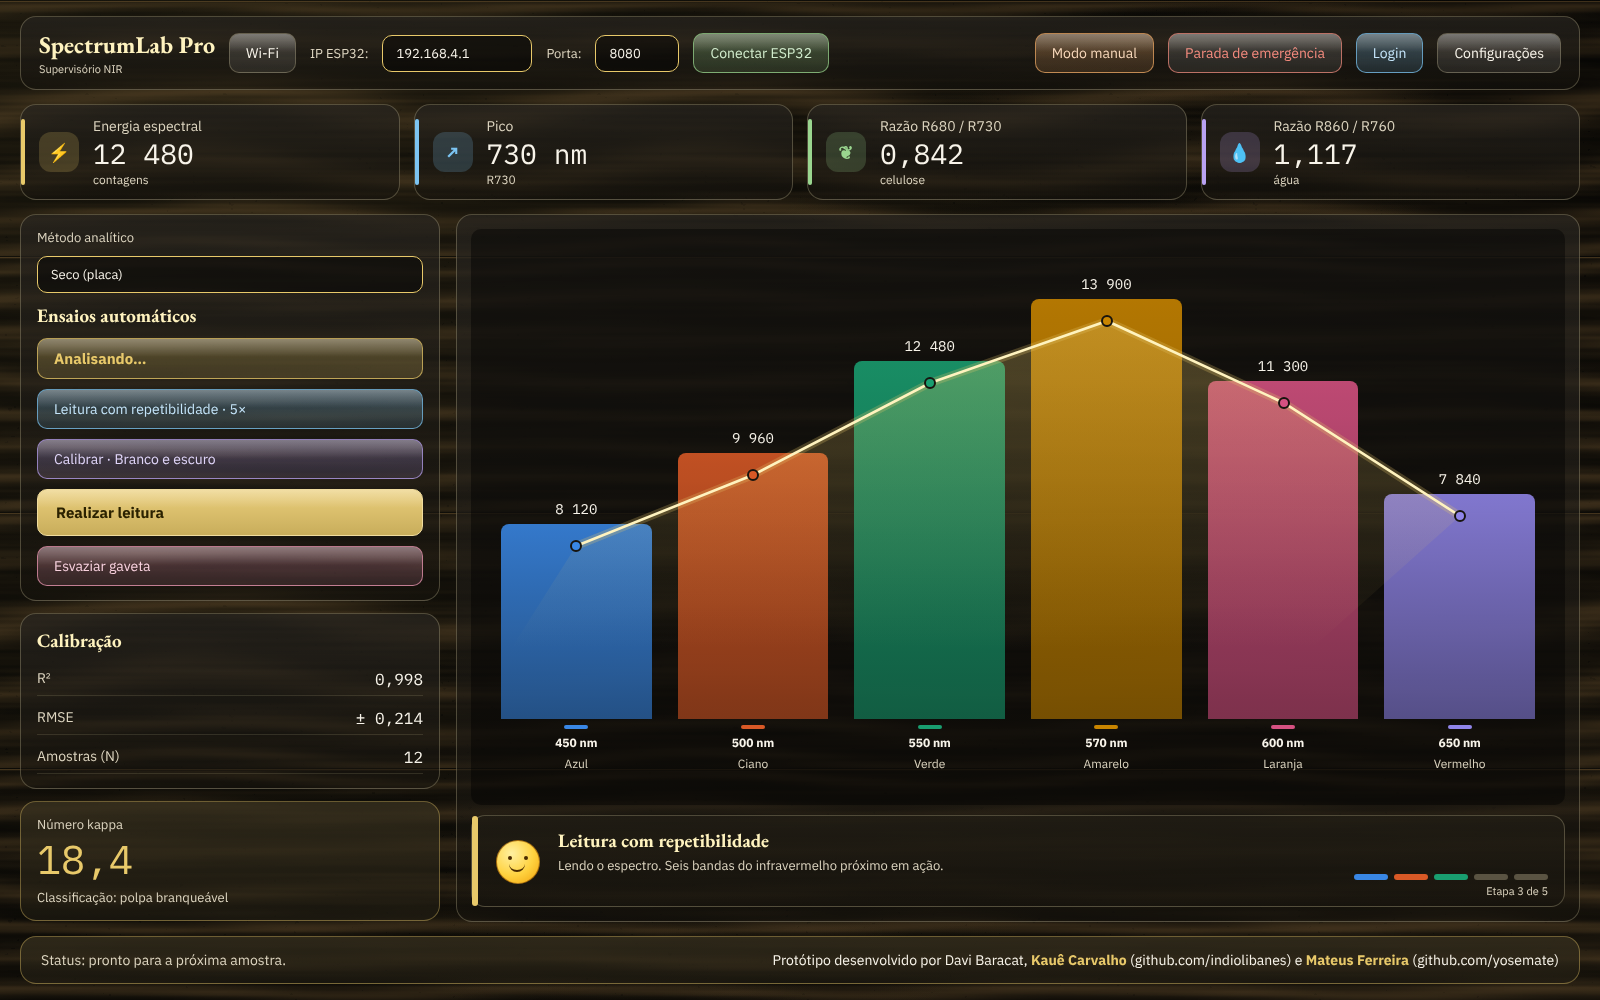
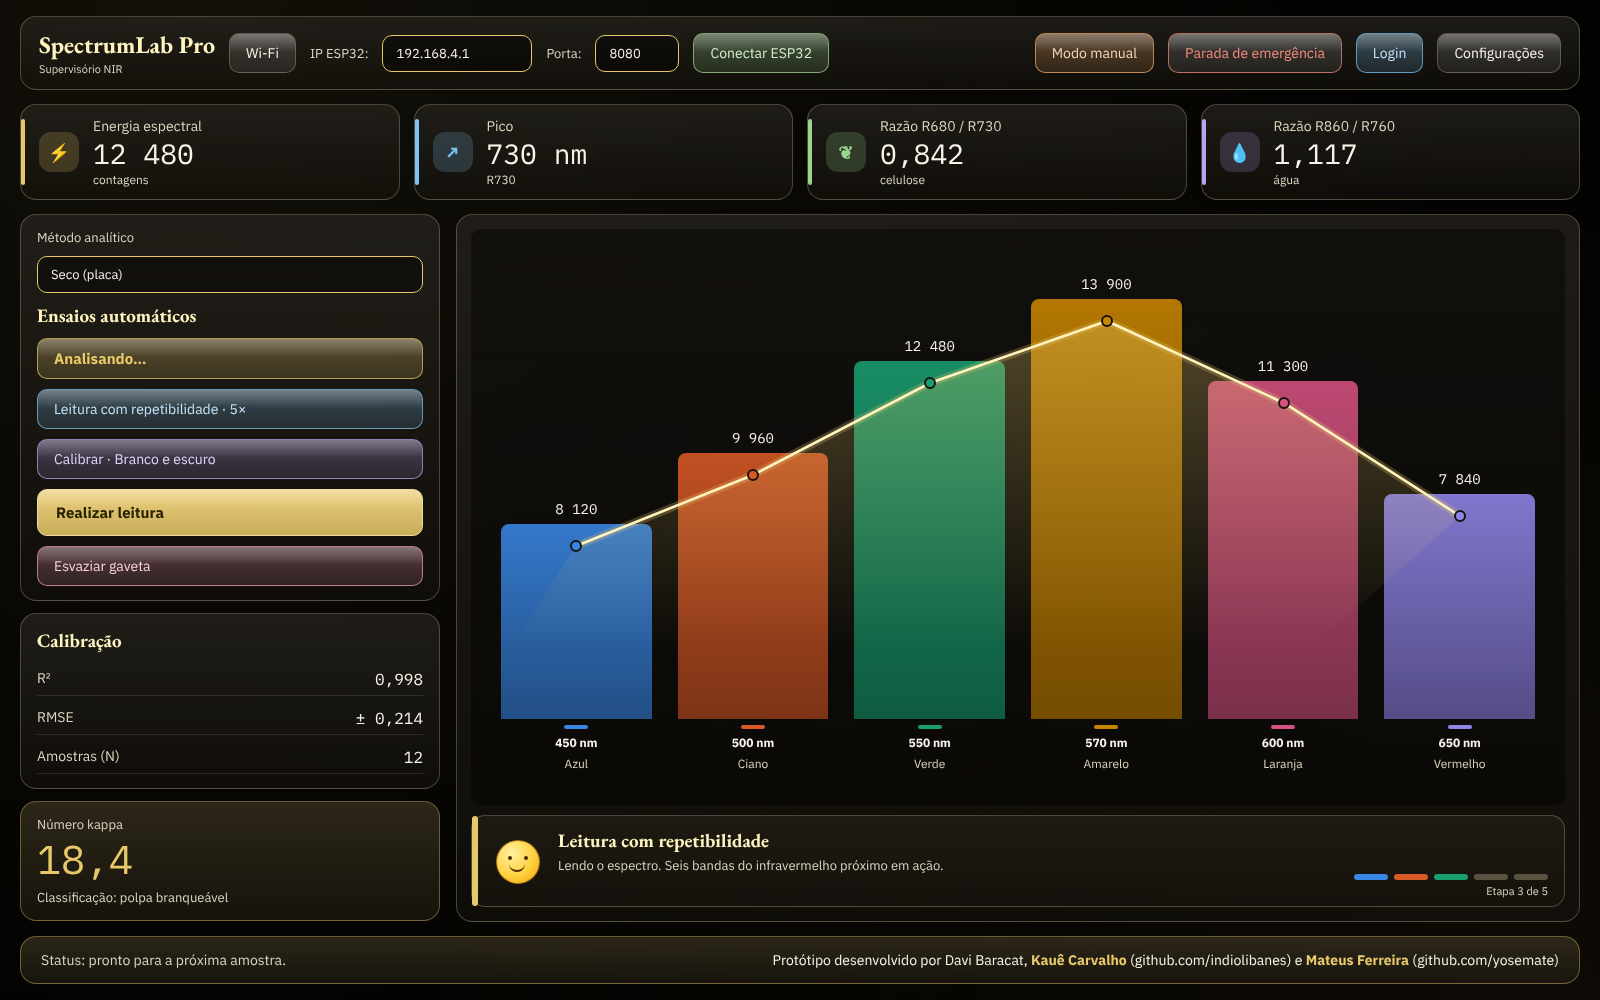
design: preto AMOLED sóbrio no tema Escuro, dourado em destaque; README transparente
- Remove a textura de madeira do tema Escuro (asset e gerador); o fundo é
  #000000 liso. A textura de celulose permanece só no tema Claro.
- Renomeia o tema para "Escuro · preto e dourado".
- README: nova seção "Como foi desenvolvido", declarando a parceria com o
  Antigravity, o desenvolvimento principal no Codex e no Claude Code, os testes
  no GitHub Codespaces e com amostras reais, e a inspiração em projetos de
  terceiros e em ideias autorais.
- Testes e espécimes atualizados.

Claude-Session: https://claude.ai/code/session_01UdjT69sd3wMh9oh5gZNrWS

diff --git a/tools/gerar_assets.py b/tools/gerar_assets.py
@@ -1,5 +1,5 @@
 """
-Gera as imagens procedurais do tema: textura de madeira escura e cursores de fibra de celulose.
+Gera os cursores de fibra de celulose (a textura clara de celulose é um asset fixo em assets/textures).
 
 Uso (só desenvolvimento; precisa de numpy e Pillow):
     python3 tools/gerar_assets.py
@@ -15,53 +15,6 @@ from PIL import Image, ImageDraw, ImageFilter
 ROOT = Path(__file__).resolve().parents[1]
 TEXTURES = ROOT / "assets" / "textures"
 CURSORS = ROOT / "assets" / "cursors"
-
-
-# ---------------------------------------------------------------------------------------------
-# Textura de madeira (tile 512 x 512 sem emendas, RGBA, só alfa varia)
-# ---------------------------------------------------------------------------------------------
-def periodic_noise(size, sigma_x, sigma_y, rng):
-    """Ruído periódico (emenda perfeita) com correlação maior em x que em y: gera fibras."""
-    spectrum = np.fft.fft2(rng.standard_normal((size, size)))
-    fx = np.fft.fftfreq(size)[None, :]
-    fy = np.fft.fftfreq(size)[:, None]
-    gauss = np.exp(-0.5 * ((fx * sigma_x) ** 2 + (fy * sigma_y) ** 2) * (2 * math.pi) ** 2)
-    out = np.real(np.fft.ifft2(spectrum * gauss))
-    out -= out.min()
-    return out / out.max()
-
-
-def wood_texture(size=512, planks=2, seed=7):
-    rng = np.random.default_rng(seed)
-    fibers = periodic_noise(size, 90, 1.3, rng)            # fibras longas, finas
-    streaks = periodic_noise(size, 40, 3.5, rng)           # veios mais largos
-    warp = periodic_noise(size, 110, 40, rng)              # deforma de leve os anéis de crescimento
-    pores = periodic_noise(size, 1.2, 0.9, rng)            # poros pequenos
-    height = size // planks
-    yy, xx = np.mgrid[0:size, 0:size]
-    value = np.zeros((size, size))
-    for k in range(planks):
-        y0, y1 = k * height, (k + 1) * height
-        local = (yy[y0:y1] - y0) / height
-        phase = rng.uniform(0, 1)
-        rings = 0.5 + 0.5 * np.sin(2 * math.pi * (local * (5.5 + 2 * k) + warp[y0:y1] * 1.1 + phase))
-        rings = rings ** 1.6
-        plank = 0.40 * rings + 0.34 * fibers[y0:y1] + 0.26 * streaks[y0:y1]
-        plank = (plank - plank.min()) / (plank.max() - plank.min())
-        plank = plank ** 1.35
-        plank *= 0.80 + 0.25 * (rng.uniform() - 0.5)          # cada tábua com um brilho próprio
-        value[y0:y1] = plank
-        # junta entre as tábuas: um fio claro seguido de uma sombra
-        value[y0, :] = 0.0
-        value[y0 + 1, :] = 0.95
-        value[y0 + 2, :] = 0.35
-    value -= 0.10 * (pores > 0.82)                           # poros escurecem um pouco
-    value = np.clip(value, 0, 1)
-    alpha = (value * 74).astype(np.uint8)
-    rgba = np.zeros((size, size, 4), np.uint8)
-    rgba[..., 0], rgba[..., 1], rgba[..., 2] = 214, 160, 88  # âmbar (cor da fibra)
-    rgba[..., 3] = alpha
-    return Image.fromarray(rgba, "RGBA")
 
 
 # ---------------------------------------------------------------------------------------------
@@ -135,7 +88,6 @@ def save_cursor(name, **kw):
 def main():
     TEXTURES.mkdir(parents=True, exist_ok=True)
     CURSORS.mkdir(parents=True, exist_ok=True)
-    wood_texture().save(TEXTURES / "madeira-escura.png", optimize=True)
     save_cursor("fibra-seta", fill=(244, 237, 220, 255), outline=(30, 22, 10, 255), strand=(236, 226, 200, 220))
     save_cursor("fibra-mao", fill=(226, 195, 92, 255), outline=(30, 22, 10, 255), strand=(240, 220, 150, 230), ring=True)
     print("Gerado em", TEXTURES, "e", CURSORS)

diff --git a/appearance.py b/appearance.py
@@ -9,9 +9,9 @@ from PyQt5.QtWidgets import (QApplication,QWidget,QLabel,QPushButton,QComboBox,Q
 from popup_design import popup_owner, popup_stylesheet
 from typography import normalize_qss, install as install_typography
 PALETTES={
- # Escuro: preto quase AMOLED com os tons de papel, umber e ouro da identidade do autor.
- # Texto em contraste alto (revisão de legibilidade): texto 17:1, secundário 13:1 sobre o fundo.
- "umber":{"canvas":"#050504","surface":"#17140E","soft":"#221E15","border":"#5A5342",
+ # Escuro: preto AMOLED sóbrio (fundo #000000, sem textura) com o dourado como destaque.
+ # Texto em contraste alto (revisão de legibilidade): texto 18:1, secundário 12:1 sobre o fundo.
+ "umber":{"canvas":"#000000","surface":"#17140E","soft":"#221E15","border":"#5A5342",
           "text":"#F8F4EA","heading":"#FFF3BF","muted":"#DDD5C0","disabled":"#8A836C","accent":"#E8C96A",
           "positive":"#9AD68F","warning":"#F0A965","danger":"#F58B7E",
           "sky":"#7CC4F2","violet":"#B9A2F2","rose":"#F29BB8",
@@ -31,18 +31,21 @@ SERIES={
 }
 DEFAULT_THEME="umber"
 LEGACY_THEMES={"dark":"umber","gold":"umber"}   # preferências salvas por versões anteriores
-THEME_LABELS={"umber":"Escuro · umber e ouro","light":"Claro · branco e verde"}
-TEXTURE_FILES={"umber":"madeira-escura.png","light":"celulose-claro.png"}
+THEME_LABELS={"umber":"Escuro · preto e dourado","light":"Claro · branco e verde"}
+TEXTURE_FILES={"light":"celulose-claro.png"}   # o Escuro é preto liso (AMOLED), sem textura
 def texture_path(theme=None):
-    """Textura de fibras de celulose, quase transparente, usada no fundo da janela principal."""
+    """Textura do fundo da janela principal, ou None quando o tema não tem textura."""
     import sys
+    name=TEXTURE_FILES.get(theme or current_theme())
+    if name is None:return None
     base=Path(getattr(sys,"_MEIPASS",Path(__file__).resolve().parent))
-    return base/"assets"/"textures"/TEXTURE_FILES.get(theme or current_theme(),TEXTURE_FILES[DEFAULT_THEME])
+    return base/"assets"/"textures"/name
 _TEXTURE_CACHE={}
 def texture_pixmap(theme=None):
     key=theme or current_theme()
     if key not in _TEXTURE_CACHE:
-        pix=QPixmap(str(texture_path(key)))
+        path=texture_path(key)
+        pix=QPixmap(str(path)) if path else QPixmap()   # QPixmap vazio: o chamador não desenha nada
         _TEXTURE_CACHE[key]=pix
     return _TEXTURE_CACHE[key]
 def current_theme():
@@ -281,7 +284,7 @@ class AppearanceDialog(QDialog):
         self.theme_buttons={}
         self.theme_group=QButtonGroup(self);self.theme_group.setExclusive(True)
         pickers=QHBoxLayout();pickers.setSpacing(12)
-        for key,text in (("umber","Escuro\nâmbar e ouro"),("light","Claro\nbranco e verde")):
+        for key,text in (("umber","Escuro\npreto e dourado"),("light","Claro\nbranco e verde")):
             button=QPushButton(text);button.setCheckable(True);button.setMinimumHeight(68)
             button.setProperty("fxTone","soft");button.setChecked(manager.theme==key)
             button.clicked.connect(lambda _=False,k=key:self.change_theme(k))

diff --git a/tests/test_gui_smoke.py b/tests/test_gui_smoke.py
@@ -91,14 +91,18 @@ class GuiSmokeTests(unittest.TestCase):
             self.manager.set_theme(theme, persist=False)
             self.assertEqual(self.app.property("spectrum_theme"), theme)
 
-    def test_canvas_root_paints_the_cellulose_texture(self):
+    def test_canvas_root_paints_the_cellulose_texture_only_in_light(self):
         import scada_ui
-        for theme in ("umber", "light"):
-            self.manager.set_theme(theme, persist=False)
-            root = scada_ui.CanvasRoot()
-            root.resize(420, 300)
-            pixmap = root.grab()
-            self.assertGreater(len(distinct_pixels(pixmap, 5, 5)), 1, f"textura invisível no tema {theme}")
+        from appearance import TEXTURE_FILES
+        self.assertNotIn("umber", TEXTURE_FILES, "o Escuro é preto liso, sem textura")
+        self.manager.set_theme("light", persist=False)
+        root = scada_ui.CanvasRoot()
+        root.resize(420, 300)
+        self.assertGreater(len(distinct_pixels(root.grab(), 5, 5)), 1, "textura invisível no tema claro")
+        self.manager.set_theme("umber", persist=False)
+        root = scada_ui.CanvasRoot()
+        root.resize(420, 300)
+        self.assertEqual(len(distinct_pixels(root.grab(), 5, 5)), 1, "fundo do Escuro deve ser preto liso")
 
     def test_legacy_theme_names_migrate_to_umber(self):
         from appearance import LEGACY_THEMES
@@ -108,7 +112,7 @@ class GuiSmokeTests(unittest.TestCase):
     def test_glass_panels_show_the_texture_through(self):
         """O cartão é translúcido: renderizado sobre a textura, não pode ser uma cor chapada."""
         import scada_ui
-        self.manager.set_theme("umber", persist=False)
+        self.manager.set_theme("light", persist=False)
         root = scada_ui.CanvasRoot()
         layout = QVBoxLayout(root)
         box = scada_ui.panel()
@@ -120,6 +124,7 @@ class GuiSmokeTests(unittest.TestCase):
         self.pump()
         self.assertGreater(len(distinct_pixels(box.grab(), 5, 5)), 1, "painel opaco: a textura não aparece")
         root.close()
+        self.manager.set_theme("umber", persist=False)
 
     def test_analysis_indicator_renders_every_state(self):
         from analysis_indicator import AnalysisIndicator

diff --git a/tools/especime.py b/tools/especime.py
@@ -48,7 +48,7 @@ def page(p, series, texture, arrow, hand):
 @font-face{{font-family:'EB Garamond';src:url('{f}EBGaramond-Regular.ttf');font-weight:400}}
 @font-face{{font-family:'IBM Plex Mono';src:url('{f}IBMPlexMono-Regular.ttf');font-weight:400}}
 *{{box-sizing:border-box;margin:0}}
-body{{width:1600px;height:1000px;background:{glows},url('{texture}'),{p['canvas']};color:{p['text']};font:400 13px 'IBM Plex Sans';padding:16px 20px;display:flex;flex-direction:column;gap:14px;position:relative}}
+body{{width:1600px;height:1000px;background:{glows}{(",url('" + texture + "')") if texture else ""},{p['canvas']};color:{p['text']};font:400 13px 'IBM Plex Sans';padding:16px 20px;display:flex;flex-direction:column;gap:14px;position:relative}}
 .panel{{background:{css(glass.panel_fill(p))};border:1px solid {glass.rim(p)};border-radius:16px}}
 .top{{display:flex;align-items:center;gap:14px;padding:12px 18px}}
 .brand b{{display:block;font:700 24px 'EB Garamond';color:{p['heading']}}} .brand small{{color:{p['muted']};font-size:11px}}
@@ -164,11 +164,10 @@ def main():
     pals, series = palettes()
     arrow = (ROOT / "assets/cursors/fibra-seta@2x.png").as_uri()
     hand = (ROOT / "assets/cursors/fibra-mao@2x.png").as_uri()
-    wood = (ROOT / "assets/textures/madeira-escura.png").as_uri()
     pulp = (ROOT / "assets/textures/celulose-claro.png").as_uri()
-    items = [("umber", page(pals["umber"], series["umber"], wood, arrow, hand), (1600, 1000)),
+    items = [("umber", page(pals["umber"], series["umber"], None, arrow, hand), (1600, 1000)),
              ("claro", page(pals["light"], series["light"], pulp, arrow, hand), (1600, 1000)),
-             ("config-umber", dialog_page(pals["umber"], series["umber"], wood, arrow, hand), (720, 820)),
+             ("config-umber", dialog_page(pals["umber"], series["umber"], None, arrow, hand), (720, 820)),
              ("config-claro", dialog_page(pals["light"], series["light"], pulp, arrow, hand), (720, 820))]
     asyncio.run(shoot(items, out))
     print("espécimes em", out)

diff --git a/glass.py b/glass.py
@@ -2,7 +2,7 @@
 Vidro: receitas de cor e QSS compartilhadas pelos painéis, botões, diálogos e teclado.
 
 O Qt não desfoca o que está atrás de um widget, então o "vidro" aqui é construído com o que o QSS
-sabe fazer: preenchimento translúcido em degradê, fio de luz na borda (rim), a textura de madeira
+sabe fazer: preenchimento translúcido em degradê, fio de luz na borda (rim), a textura (no claro)
 aparecendo por baixo dos painéis e um brilho ambiente no fundo (pintado em scada_ui.CanvasRoot).
 
 Módulo sem Qt, para poder ser testado em qualquer lugar (tests/test_glass.py).
@@ -47,7 +47,7 @@ def rim(p, strength=1.0):
 
 
 def panel_fill(p):
-    """Painel de vidro: mais claro no alto, mais fundo embaixo; deixa a madeira aparecer."""
+    """Painel de vidro: mais claro no alto, mais fundo embaixo; deixa o fundo aparecer."""
     if is_dark(p):
         return vgrad(rgba(mix_hex(p["surface"], "#FFFFFF", 0.07), 0.74), rgba(p["surface"], 0.56))
     return vgrad(rgba("#FFFFFF", 0.88), rgba("#FFFFFF", 0.66))

diff --git a/scada_ui.py b/scada_ui.py
@@ -15,7 +15,7 @@ from responsive_layout import ScaledCanvasView
 from version import __credits__,credits_html
 
 class CanvasRoot(QWidget):
-    """Raiz do painel: fundo do tema, textura (madeira no escuro, celulose no claro) e brilho ambiente.
+    """Raiz do painel: fundo do tema, textura (só celulose, no claro) e brilho ambiente.
 
     Os cartões são translúcidos (ver glass.py), então tudo isso aparece por trás deles."""
     def paint_background(self,painter):
@@ -61,7 +61,7 @@ def open_login(window):
         window.log_message('Sessão autenticada: '+window.current_operator_name)
 
 def dashboard_style(p):
-    """Folha de estilo do painel: vidro sobre a madeira, botões com tom por função, destaque contido."""
+    """Folha de estilo do painel: vidro sobre o preto, botões com tom por função, destaque dourado."""
     accent=p['accent_strong']
     rim=glass.rim(p);rim_soft=glass.rim(p,.6);rim_button=glass.rim(p,1.5)
     hover_border=glass.rgba(p['accent'],.85)

diff --git a/tests/test_glass.py b/tests/test_glass.py
@@ -140,7 +140,7 @@ class GlassTests(unittest.TestCase):
 
 class AssetTests(unittest.TestCase):
     def test_generated_assets_exist(self):
-        for rel in ("assets/textures/madeira-escura.png", "assets/textures/celulose-claro.png",
+        for rel in ("assets/textures/celulose-claro.png",
                     "assets/cursors/fibra-seta.png", "assets/cursors/fibra-seta@2x.png",
                     "assets/cursors/fibra-mao.png", "assets/cursors/fibra-mao@2x.png"):
             path = ROOT / rel

diff --git a/docs/IDENTIDADE_VISUAL.md b/docs/IDENTIDADE_VISUAL.md
@@ -19,7 +19,7 @@ Três referências, todas usadas como inspiração de linguagem, nunca como cóp
 - **Clareza da interface da Apple**: poucos elementos por tela, hierarquia tipográfica curta, cantos generosos (10 px nos botões e campos, 16 px nos painéis), destaque dourado (ou verde) para a ação principal e um tom por função nos demais botões, movimento com física de mola (entrada escalonada, botões que cedem ao toque e voltam com leve ultrapassagem, troca de tema em fusão). Só a *linguagem*: as fontes e o kit visual da Apple são proprietários e não são usados.
 - **Material 3** para os estados de toque (realce ao passar, cor viva ao pressionar, ondulação no ponto tocado) e alvos de toque grandes.
 
-**O que o Qt não faz.** O QSS não desfoca o que está atrás do widget. O vidro é construído com preenchimento translúcido em degradê, fio de luz na borda, a textura do fundo aparecendo por baixo dos painéis e um brilho ambiente pintado no fundo. Resultado: a mesma sensação de profundidade, sem desfoque real.
+**O que o Qt não faz.** O QSS não desfoca o que está atrás do widget. O vidro é construído com preenchimento translúcido em degradê, fio de luz na borda, a textura do fundo (no claro) aparecendo por baixo dos painéis e um brilho ambiente pintado no fundo. Resultado: a mesma sensação de profundidade, sem desfoque real.
 
 **Por que não Jetpack Compose neste programa.** O Compose é uma biblioteca em Kotlin (Android e JVM) e não pode ser embutido em um aplicativo PyQt5. O caminho para Android é um cliente separado, que fale o mesmo protocolo TCP do ESP32 (comandos em `run/fake_esp32.py`), e fica para a última fase do roteiro: primeiro UX/UI, depois animações, por fim Android e talvez web.
 
@@ -49,13 +49,13 @@ Aparece na abertura (canto inferior direito) e no **rodapé da janela principal*
 
 Há dois temas, escolhidos em *Configurações → Aparência*; a escolha fica salva e a troca acontece em uma fusão suave de cerca de 360 ms (sem ela, com *Reduzir animações*). *Acessibilidade* é uma seção à parte, com o teclado na tela e as animações. Preferências antigas (`dark`, `gold`) migram sozinhas para o tema Escuro.
 
-### Escuro · umber e ouro (padrão)
+### Escuro · preto e dourado (padrão)
 
-Preto quase AMOLED (`#050504`: os pixels ficam praticamente apagados em telas OLED) com os tons de papel, umber e ouro da identidade do autor.
+Preto AMOLED (`#000000`: os pixels ficam totalmente apagados em telas OLED), sem textura, com o dourado como única cor de destaque. Os tons de texto são papel quente, para não parecer frio.
 
 | Token | Hex | Uso |
 |---|---|---|
-| canvas | `#050504` | Fundo da janela |
+| canvas | `#000000` | Fundo da janela (preto AMOLED, sem textura) |
 | surface | `#17140E` | Diálogos e base dos painéis de vidro |
 | soft | `#221E15` | Áreas alternadas |
 | border | `#5A5342` | Bordas sólidas e divisores |
@@ -68,7 +68,7 @@ Preto quase AMOLED (`#050504`: os pixels ficam praticamente apagados em telas OL
 | sky / violet / rose | `#7CC4F2` / `#B9A2F2` / `#F29BB8` | Tons de função dos botões e dos ícones |
 | on_strong | `#2B2200` | Texto sobre botão dourado |
 
-**Textura de madeira.** `assets/textures/madeira-escura.png`: tábuas de fibra âmbar quase transparentes, geradas por `tools/gerar_assets.py` (semente fixa, sem imagem de terceiros). Aparece no fundo e por trás dos painéis de vidro.
+**Sem textura no escuro.** A textura de madeira foi removida: o fundo é preto liso, e o destaque vem do dourado (botão principal, números, curva e bordas), não de ornamento.
 
 ### Claro: branco e verde
 
@@ -111,7 +111,7 @@ Receitas em `glass.py` (sem Qt, testadas):
 | Botão em tom | Vidro tingido com a cor da função (30% no alto, 14% embaixo, no escuro), borda a 70% do tom |
 | Botão principal | Cor de destaque cheia, com luz no topo e foco de luz que acompanha o ponteiro (desenhados por `button_fx.py`) |
 | Campos | Poço levemente mais escuro que o painel, borda de destaque no foco |
-| Fundo | Cor do tema + textura + dois brilhos ambientes (dourado no escuro, verde no claro) |
+| Fundo | Cor do tema + textura (só no claro) + dois brilhos ambientes (dourado no escuro, verde no claro) |
 
 Diálogos usam cor sólida (são janelas separadas e não há o que enxergar através delas).
 

diff --git a/docs/TUTORIAL_CODESPACE.md b/docs/TUTORIAL_CODESPACE.md
@@ -1,6 +1,6 @@
 # Tutorial de teste no Codespace
 
-Roteiro para validar a interface nova: tema Escuro (preto quase AMOLED, umber e ouro, sobre madeira), tema Claro, Configurações em duas seções (Aparência e Acessibilidade), legibilidade e responsividade, botões em tons com animação de mola, gráficos coloridos, indicador de análise com rosto colorido, teclado na tela, rodapé com links e cursor de fibra de celulose. Tempo estimado: 50 minutos, sendo 10 de preparação.
+Roteiro para validar a interface nova: tema Escuro (preto AMOLED sóbrio, com dourado em destaque), tema Claro, Configurações em duas seções (Aparência e Acessibilidade), legibilidade e responsividade, botões em tons com animação de mola, gráficos coloridos, indicador de análise com rosto colorido, teclado na tela, rodapé com links e cursor de fibra de celulose. Tempo estimado: 50 minutos, sendo 10 de preparação.
 
 > **Importante.** A interface foi escrita sem poder abrir o PyQt5 no ambiente do assistente. A lógica pura tem testes automáticos que passam, mas **a aparência e o toque ainda não foram vistos em execução**. É isso que este roteiro verifica.
 
@@ -81,11 +81,11 @@ Marque **OK** ou descreva o problema. Prints ajudam muito.
 
 | # | Passo | Esperado | |
 |---|---|---|---|
-| A1 | Observe a abertura | Marca "SpectrumLab Pro" em Garamond cor de ouro pálido; "Da luz" em ouro pálido e "à análise." em dourado; madeira escura ao fundo, logos SENAI e ARAUCO; assinatura no canto inferior direito | ☐ |
-| A2 | Janela principal | Fundo quase preto (confira em tela OLED, se tiver), veios de madeira discretos nas margens **e por trás dos painéis**, painéis de vidro com fio de luz na borda, destaques dourados | ☐ |
+| A1 | Observe a abertura | Marca "SpectrumLab Pro" em Garamond cor de ouro pálido; "Da luz" em ouro pálido e "à análise." em dourado; fundo preto liso, sem textura no Escuro, logos SENAI e ARAUCO; assinatura no canto inferior direito | ☐ |
+| A2 | Janela principal | Fundo preto liso (confira em tela OLED, se tiver), **sem** veios ou textura no Escuro; painéis de vidro com fio de luz na borda; destaques dourados | ☐ |
 | A3 | Títulos e números | "SpectrumLab Pro", "Ensaios automáticos" e o título do indicador em **Garamond** (serifa fina); rótulos e botões em Plex Sans; valores dos indicadores e o número Kappa em Mono | ☐ |
 | A4 | **Configurações** → seção **Aparência** → tema **Claro** | Troca na hora, com uma fusão suave, para branco e verde; nenhum trecho azul ou preto "esquecido". O tema fica **só** nessa seção | ☐ |
-| A5 | Volte para **Escuro · umber e ouro** | Preto, madeira e ouro. A lista tem só dois temas | ☐ |
+| A5 | Volte para **Escuro · preto e dourado** | Preto e dourado, sem textura. A lista tem só dois temas | ☐ |
 | A6 | Feche e abra o programa | Lembra o último tema escolhido | ☐ |
 | A7 | Rodapé | Cartão com borda de destaque, bem visível nos dois temas. À direita: "Protótipo desenvolvido por Davi Baracat, **Kauê Carvalho** e **Mateus Ferreira**", com os dois nomes em destaque como links | ☐ |
 | A7b | Clique em **Kauê Carvalho** e em **Mateus Ferreira** | Abrem `github.com/indiolibanes` e `github.com/yosemate` no navegador | ☐ |
